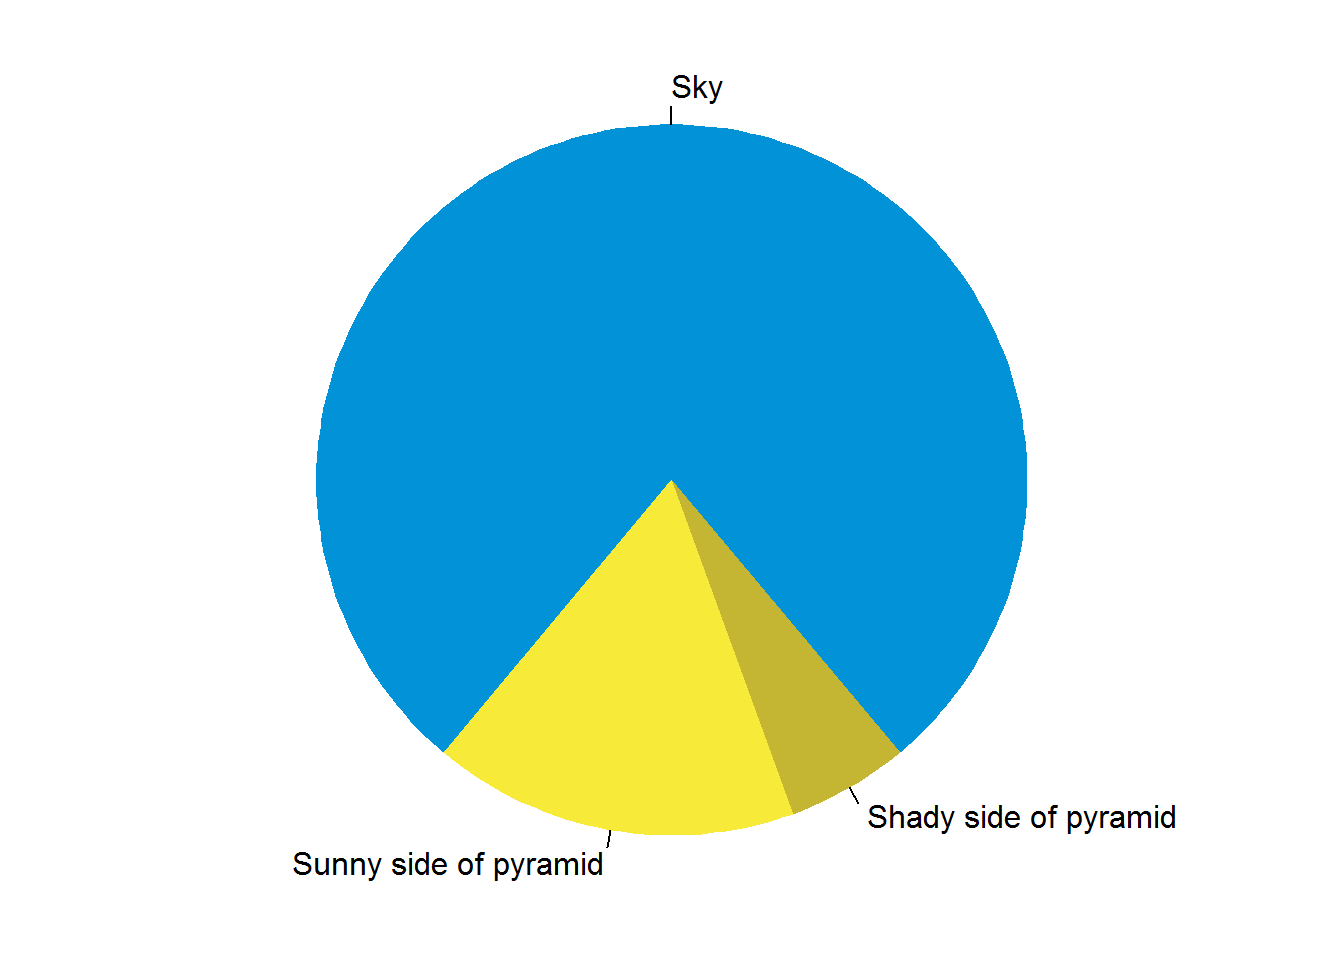
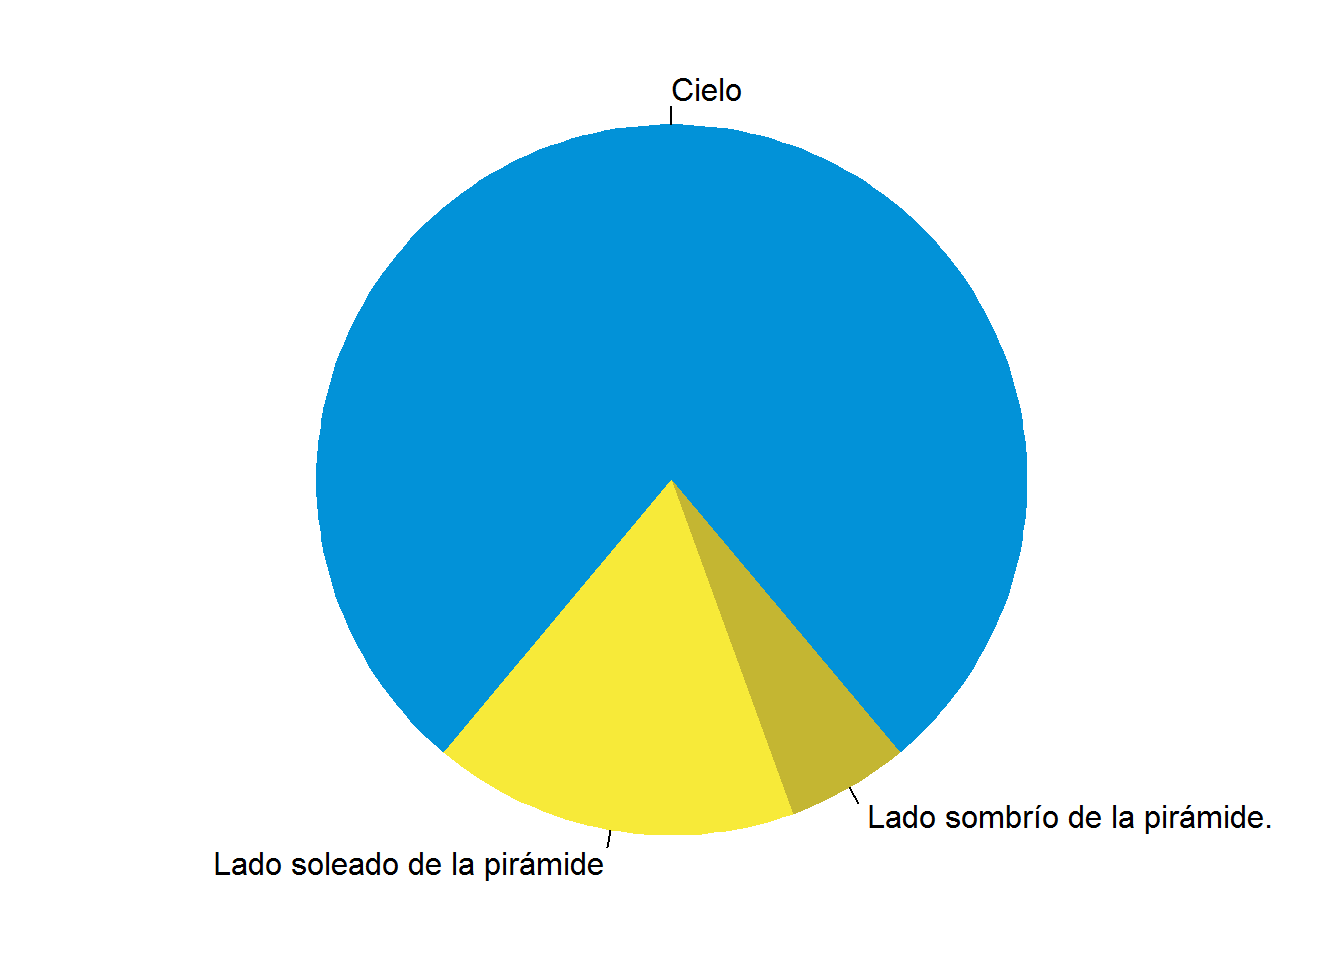
YouTube Video embe

Changed region(s): [[0.1562, 0.875, 0.4375, 0.9375], [0.6562, 0.8438, 0.9375, 0.875], [0.5, 0.0625, 0.5625, 0.125]]

diff --git a/content/post/2018-12-27-visualización-de-datos-primeros-pasos.html b/content/post/2018-12-27-visualización-de-datos-primeros-pasos.html
@@ -6,9 +6,9 @@ author: EMTincopa
 published: true
 image: ""
 date: 2018-12-27T00:58:19-05:00
-draft: true
 categories: ["Tips"]
 tags: ["DataViz", "Data", "Power BI", "Tableau","R","Plot", "Tools"]
+draft: true
 showtoc: false
 ---
 
@@ -37,25 +37,46 @@ showtoc: false
 <img src="\content\post\2018-12-27-visualización-de-datos-primeros-pasos\diabetes_mellitus.png" alt="Infografía hecha con R y Adobe Illustrator" />
 <p class="caption">Infografía hecha con R y Adobe Illustrator</p>
 </div>
-<p>En cualquier caso, si finalmente te has decidido aprender R para sumergirte en la visualización de datos, te recomiendo que revises los paquetes ggplot2 y dplyr (si eres disciplinado podrás aprender la sintaxis de R en menos de un mes). Una vez aprendas la sintaxis, los gráficos de dispersión, barras y de burbujas, entre otros, serán muy fáciles.</p>
+<p>En cualquier caso, si finalmente te has decidido aprender R para sumergirte en la visualización de datos, te recomiendo que revises los paquetes <a href="https://ggplot2.tidyverse.org/">ggplot2</a> y dplyr (si eres disciplinado podrás aprender la sintaxis de R en menos de un mes). Una vez aprendas la sintaxis, los gráficos de dispersión, barras y de burbujas, entre otros, serán muy fáciles.</p>
 <p>En general las visualizaciones que parecían extremadamente difíciles terminarán siendo más sencillas de lo que esperabas. Es a partir de este momento en el que tienes que hacer explotar tu creatividad, domina ggplot2 y dplyr porque serán tus principales herramientas para más adelante encontrar historias entre tus datos.</p>
-<p>A continuación algunos gráficos hechos con R. See Figure <a href="#fig:pie">1</a> for example:</p>
+<p>A continuación algunos gráficos hechos con R.</p>
 <pre class="r"><code>par(mar = c(0, 1, 0, 1))
 pie(
   c(280, 60, 20),
-  c(&#39;Sky&#39;, &#39;Sunny side of pyramid&#39;, &#39;Shady side of pyramid&#39;),
+  c(&#39;Cielo&#39;, &#39;Lado soleado de la pirámide&#39;, &#39;Lado sombrío de la pirámide.&#39;),
   col = c(&#39;#0292D8&#39;, &#39;#F7EA39&#39;, &#39;#C4B632&#39;),
   init.angle = -50, border = NA
 )</code></pre>
 <div class="figure"><span id="fig:pie"></span>
-<img src="/post/2018-12-27-visualización-de-datos-primeros-pasos_files/figure-html/pie-1.png" alt="A fancy pie chart." width="672" />
+<img src="/post/2018-12-27-visualización-de-datos-primeros-pasos_files/figure-html/pie-1.png" alt="Gráfico de pie para un ícono piramidal." width="672" />
 <p class="caption">
-Figure 1: A fancy pie chart.
+Figure 1: Gráfico de pie para un ícono piramidal.
 </p>
 </div>
-<p>R no solo genera visualizaciones estáticas, actualmente gracias a la R API de Plotly (una librería de código abierto de JavaScript) podemos crear gráficos interactivos basados en nuestros códigos en R.</p>
+<p>El paquete <a href="https://ggplot2.tidyverse.org/">ggplot2</a> puede ser acompañado de otros paquetes como <a href="https://yutannihilation.github.io/allYourFigureAreBelongToUs/ggthemes/">ggthemes</a> para darle una apariencia automática a tu gráfico.</p>
+<pre class="r"><code>library(ggplot2)
+library(ggthemes)
+
+ggplot(mpg, aes(displ, hwy, colour = class)) + 
+  geom_point()+
+  theme_minimal()</code></pre>
+<div class="figure"><span id="fig:point"></span>
+<img src="/post/2018-12-27-visualización-de-datos-primeros-pasos_files/figure-html/point-1.png" alt="Gráfico de puntos estándar." width="672" />
+<p class="caption">
+Figure 2: Gráfico de puntos estándar.
+</p>
+</div>
+<p>R no solo genera visualizaciones estáticas, actualmente gracias a la R API de <a href="https://plot.ly/#/">Plotly</a> (una librería de código abierto de JavaScript) podemos crear gráficos interactivos basados en nuestros códigos en R.</p>
 <iframe width="640" height="320" frameborder="0" scrolling="no" src="//plot.ly/~EMTincopa/6.embed">
 </iframe>
+<p>Finalmente, tengo que decirte que R no es el único lenguaje con el cual podrás crear visualizaciones impactantes. Python, por ejemplo, tiene muchas librerías dedicadas a la visualización de datos (<a href="https://seaborn.pydata.org/">Seaborn</a> y <a href="https://bokeh.pydata.org/en/latest/">Bokeh</a>) y JavaScript con su librería D3 es la elección indicada si quieres publicar en la web gráficos interactivos.</p>
+<p>{{&lt; youtube PItDPJxMZ1k &gt;}}</p>
+<p>Ufff, hay mucho por ver pero esto es todo por hoy, espero este artículo te haya sido de ayuda y si terminas creando una visualización genial no olvides compartirlo conmigo por Twitter (<a href="https://twitter.com/EMTincopa">EMTincopa</a>).</p>
+<p>Suerte!!!</p>
+<div class="figure">
+<img src="https://www.youtube.com/watch?v=39cypVFGOKk" alt="Población mundial 1950-2100 - Power BI" />
+<p class="caption">Población mundial 1950-2100 - Power BI</p>
+</div>
 <p><strong>Aprende más en:</strong></p>
 <ul>
 <li><a href="https://searchbusinessanalytics.techtarget.com/definition/data-visualization">Data visualization</a></li>
@@ -64,8 +85,7 @@ Figure 1: A fancy pie chart.
 <li><a href="https://www.activebs.com/en/power-bi/why-power-bi">Why Power BI?</a></li>
 <li><a href="https://powerbi.microsoft.com/es-es/what-is-power-bi/">¿Qué es Power BI?</a></li>
 <li><a href="https://www.r-bloggers.com/why-you-should-start-by-learning-data-visualization-and-manipulation/">Why you should start by learning data visualization and manipulation</a></li>
-<li><a href="https://plot.ly/#/">Plotly</a></li>
 <li><a href="https://www.quora.com/Whats-the-most-popular-language-for-data-visualization">What’s the most popular language for data visualization?</a></li>
-<li>[Five Interactive R Visualizations With D3, ggplot2, &amp; RStudio] (<a href="https://moderndata.plot.ly/interactive-r-visualizations-with-d3-ggplot2-rstudio/" class="uri">https://moderndata.plot.ly/interactive-r-visualizations-with-d3-ggplot2-rstudio/</a>)</li>
+<li><a href="https://moderndata.plot.ly/interactive-r-visualizations-with-d3-ggplot2-rstudio/">Five Interactive R Visualizations With D3, ggplot2, &amp; RStudio</a></li>
 <li><a href="https://medium.com/datavisualization/where-should-i-start-c53acdf04a1c">Getting into data visualization — where should I start?</a></li>
 </ul>

diff --git a/post/2018-12-27-visualización-de-datos-primeros-pasos/index.html b/post/2018-12-27-visualización-de-datos-primeros-pasos/index.html
@@ -209,25 +209,46 @@
 <img src="\content\post\2018-12-27-visualización-de-datos-primeros-pasos\diabetes_mellitus.png" alt="Infografía hecha con R y Adobe Illustrator" />
 <p class="caption">Infografía hecha con R y Adobe Illustrator</p>
 </div>
-<p>En cualquier caso, si finalmente te has decidido aprender R para sumergirte en la visualización de datos, te recomiendo que revises los paquetes ggplot2 y dplyr (si eres disciplinado podrás aprender la sintaxis de R en menos de un mes). Una vez aprendas la sintaxis, los gráficos de dispersión, barras y de burbujas, entre otros, serán muy fáciles.</p>
+<p>En cualquier caso, si finalmente te has decidido aprender R para sumergirte en la visualización de datos, te recomiendo que revises los paquetes <a href="https://ggplot2.tidyverse.org/">ggplot2</a> y dplyr (si eres disciplinado podrás aprender la sintaxis de R en menos de un mes). Una vez aprendas la sintaxis, los gráficos de dispersión, barras y de burbujas, entre otros, serán muy fáciles.</p>
 <p>En general las visualizaciones que parecían extremadamente difíciles terminarán siendo más sencillas de lo que esperabas. Es a partir de este momento en el que tienes que hacer explotar tu creatividad, domina ggplot2 y dplyr porque serán tus principales herramientas para más adelante encontrar historias entre tus datos.</p>
-<p>A continuación algunos gráficos hechos con R. See Figure <a href="#fig:pie">1</a> for example:</p>
+<p>A continuación algunos gráficos hechos con R.</p>
 <pre class="r"><code>par(mar = c(0, 1, 0, 1))
 pie(
   c(280, 60, 20),
-  c(&#39;Sky&#39;, &#39;Sunny side of pyramid&#39;, &#39;Shady side of pyramid&#39;),
+  c(&#39;Cielo&#39;, &#39;Lado soleado de la pirámide&#39;, &#39;Lado sombrío de la pirámide.&#39;),
   col = c(&#39;#0292D8&#39;, &#39;#F7EA39&#39;, &#39;#C4B632&#39;),
   init.angle = -50, border = NA
 )</code></pre>
 <div class="figure"><span id="fig:pie"></span>
-<img src="/post/2018-12-27-visualización-de-datos-primeros-pasos_files/figure-html/pie-1.png" alt="A fancy pie chart." width="672" />
+<img src="/post/2018-12-27-visualización-de-datos-primeros-pasos_files/figure-html/pie-1.png" alt="Gráfico de pie para un ícono piramidal." width="672" />
 <p class="caption">
-Figure 1: A fancy pie chart.
+Figure 1: Gráfico de pie para un ícono piramidal.
 </p>
 </div>
-<p>R no solo genera visualizaciones estáticas, actualmente gracias a la R API de Plotly (una librería de código abierto de JavaScript) podemos crear gráficos interactivos basados en nuestros códigos en R.</p>
+<p>El paquete <a href="https://ggplot2.tidyverse.org/">ggplot2</a> puede ser acompañado de otros paquetes como <a href="https://yutannihilation.github.io/allYourFigureAreBelongToUs/ggthemes/">ggthemes</a> para darle una apariencia automática a tu gráfico.</p>
+<pre class="r"><code>library(ggplot2)
+library(ggthemes)
+
+ggplot(mpg, aes(displ, hwy, colour = class)) + 
+  geom_point()+
+  theme_minimal()</code></pre>
+<div class="figure"><span id="fig:point"></span>
+<img src="/post/2018-12-27-visualización-de-datos-primeros-pasos_files/figure-html/point-1.png" alt="Gráfico de puntos estándar." width="672" />
+<p class="caption">
+Figure 2: Gráfico de puntos estándar.
+</p>
+</div>
+<p>R no solo genera visualizaciones estáticas, actualmente gracias a la R API de <a href="https://plot.ly/#/">Plotly</a> (una librería de código abierto de JavaScript) podemos crear gráficos interactivos basados en nuestros códigos en R.</p>
 <iframe width="640" height="320" frameborder="0" scrolling="no" src="//plot.ly/~EMTincopa/6.embed">
 </iframe>
+<p>Finalmente, tengo que decirte que R no es el único lenguaje con el cual podrás crear visualizaciones impactantes. Python, por ejemplo, tiene muchas librerías dedicadas a la visualización de datos (<a href="https://seaborn.pydata.org/">Seaborn</a> y <a href="https://bokeh.pydata.org/en/latest/">Bokeh</a>) y JavaScript con su librería D3 es la elección indicada si quieres publicar en la web gráficos interactivos.</p>
+<p>{{&lt; youtube PItDPJxMZ1k &gt;}}</p>
+<p>Ufff, hay mucho por ver pero esto es todo por hoy, espero este artículo te haya sido de ayuda y si terminas creando una visualización genial no olvides compartirlo conmigo por Twitter (<a href="https://twitter.com/EMTincopa">EMTincopa</a>).</p>
+<p>Suerte!!!</p>
+<div class="figure">
+<img src="https://www.youtube.com/watch?v=39cypVFGOKk" alt="Población mundial 1950-2100 - Power BI" />
+<p class="caption">Población mundial 1950-2100 - Power BI</p>
+</div>
 <p><strong>Aprende más en:</strong></p>
 <ul>
 <li><a href="https://searchbusinessanalytics.techtarget.com/definition/data-visualization">Data visualization</a></li>
@@ -236,9 +257,8 @@ Figure 1: A fancy pie chart.
 <li><a href="https://www.activebs.com/en/power-bi/why-power-bi">Why Power BI?</a></li>
 <li><a href="https://powerbi.microsoft.com/es-es/what-is-power-bi/">¿Qué es Power BI?</a></li>
 <li><a href="https://www.r-bloggers.com/why-you-should-start-by-learning-data-visualization-and-manipulation/">Why you should start by learning data visualization and manipulation</a></li>
-<li><a href="https://plot.ly/#/">Plotly</a></li>
 <li><a href="https://www.quora.com/Whats-the-most-popular-language-for-data-visualization">What’s the most popular language for data visualization?</a></li>
-<li>[Five Interactive R Visualizations With D3, ggplot2, &amp; RStudio] (<a href="https://moderndata.plot.ly/interactive-r-visualizations-with-d3-ggplot2-rstudio/" class="uri">https://moderndata.plot.ly/interactive-r-visualizations-with-d3-ggplot2-rstudio/</a>)</li>
+<li><a href="https://moderndata.plot.ly/interactive-r-visualizations-with-d3-ggplot2-rstudio/">Five Interactive R Visualizations With D3, ggplot2, &amp; RStudio</a></li>
 <li><a href="https://medium.com/datavisualization/where-should-i-start-c53acdf04a1c">Getting into data visualization — where should I start?</a></li>
 </ul>
 
